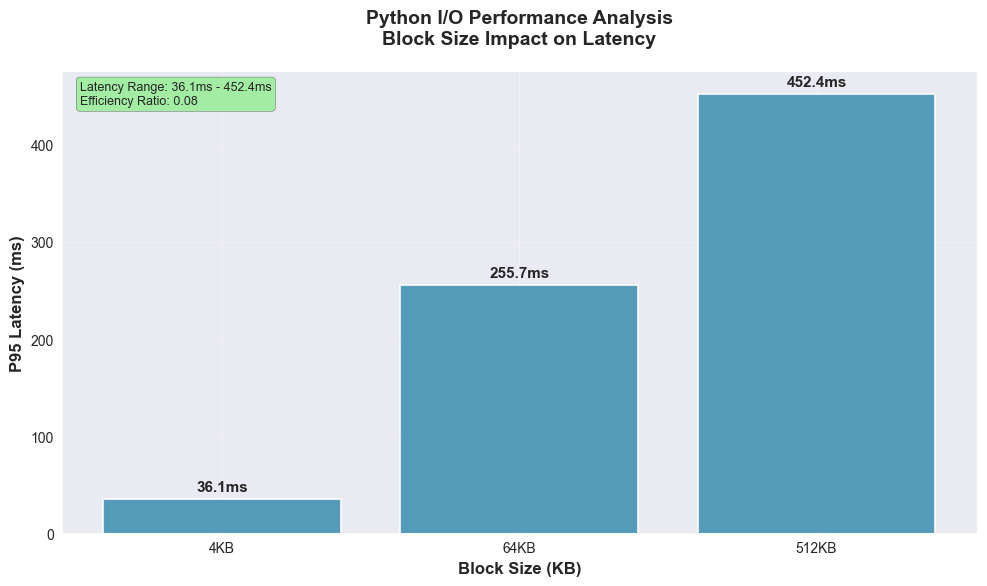
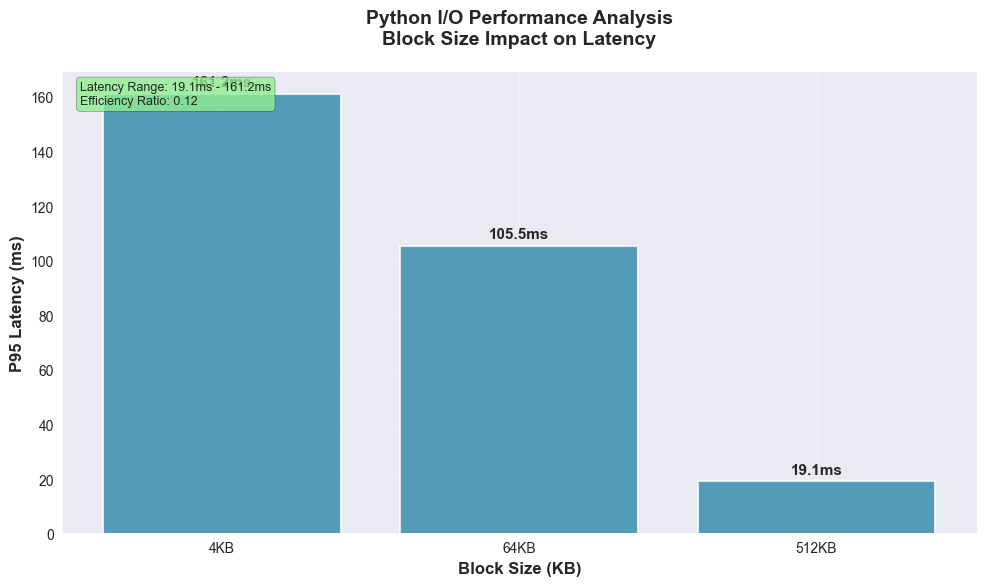
fixed bug

diff --git a/bench/py_io/io_bench.py b/bench/py_io/io_bench.py
@@ -1,5 +1,77 @@
 import os, time, argparse, random
-def write_read(path, size_kb=64, count=20):  # Reduced for home computer compatibility
+
+def write_read_fixed_total(path, block_kb=64, total_mb=1):
+    """Test I/O performance with fixed total data size but varying block sizes.
+    
+    This properly tests the effect of block size on I/O efficiency by:
+    - Keeping total data size constant
+    - Varying block size (and thus number of operations)
+    - Measuring the impact of system call overhead vs data transfer efficiency
+    """
+    total_bytes = total_mb * 1024 * 1024
+    block_bytes = block_kb * 1024
+    num_blocks = total_bytes // block_bytes
+    
+    # Generate random data for the block
+    block_data = os.urandom(block_bytes)
+    
+    t0 = time.perf_counter()
+    
+    # Write phase: write num_blocks files, each of block_kb size
+    file_paths = []
+    for i in range(num_blocks):
+        file_path = f"{path}/block_{i}.bin"
+        file_paths.append(file_path)
+        with open(file_path, "wb") as f:
+            f.write(block_data)
+    
+    # Read phase: read all files back
+    for file_path in file_paths:
+        with open(file_path, "rb") as f:
+            _ = f.read()
+    
+    # Cleanup phase: remove all files
+    for file_path in file_paths:
+        os.remove(file_path)
+    
+    t1 = time.perf_counter()
+    return (t1-t0)*1000.0
+
+def write_read_fixed_operations(path, block_kb=64, operations=20):
+    """Test I/O performance with fixed number of operations but varying block sizes.
+    
+    This tests the raw efficiency of different block sizes by:
+    - Keeping number of I/O operations constant
+    - Varying data size per operation
+    - Measuring pure I/O throughput
+    """
+    block_bytes = block_kb * 1024
+    block_data = os.urandom(block_bytes)
+    
+    t0 = time.perf_counter()
+    
+    # Write phase
+    file_paths = []
+    for i in range(operations):
+        file_path = f"{path}/op_{i}.bin"
+        file_paths.append(file_path)
+        with open(file_path, "wb") as f:
+            f.write(block_data)
+    
+    # Read phase
+    for file_path in file_paths:
+        with open(file_path, "rb") as f:
+            _ = f.read()
+    
+    # Cleanup phase
+    for file_path in file_paths:
+        os.remove(file_path)
+    
+    t1 = time.perf_counter()
+    return (t1-t0)*1000.0
+
+def write_read_legacy(path, size_kb=64, count=20):
+    """Legacy version - kept for backward compatibility."""
     data = os.urandom(size_kb*1024)
     t0 = time.perf_counter()
     for i in range(count):
@@ -12,44 +84,27 @@ def write_read(path, size_kb=64, count=20):  # Reduced for home computer compati
     t1 = time.perf_counter()
     return (t1-t0)*1000.0
 
-def write_read_optimized(path, size_kb=64, count=20):
-    """Optimized version that reduces file system overhead."""
-    data = os.urandom(size_kb*1024)
-    t0 = time.perf_counter()
-    
-    # Pre-create all files to reduce overhead
-    file_paths = [f"{path}/blk_{i}.bin" for i in range(count)]
-    
-    # Write phase
-    for p in file_paths:
-        with open(p, "wb") as f:
-            f.write(data)
-    
-    # Read phase  
-    for p in file_paths:
-        with open(p, "rb") as f:
-            _ = f.read()
-    
-    # Cleanup phase
-    for p in file_paths:
-        os.remove(p)
-    
-    t1 = time.perf_counter()
-    return (t1-t0)*1000.0
-
 if __name__ == "__main__":
-    ap = argparse.ArgumentParser()
-    ap.add_argument("--dir", default="./tmpio")
-    ap.add_argument("--block_kb", type=int, default=64)
-    ap.add_argument("--count", type=int, default=20)  # Reduced for home computer compatibility
-    ap.add_argument("--optimized", action="store_true", help="Use optimized I/O test")
+    ap = argparse.ArgumentParser(description="I/O Performance Benchmark Test")
+    ap.add_argument("--dir", default="./tmpio", help="Temporary directory for test files")
+    ap.add_argument("--block_kb", type=int, default=64, help="Block size in KB")
+    ap.add_argument("--total_mb", type=int, default=1, help="Total data size in MB (for fixed_total mode)")
+    ap.add_argument("--operations", type=int, default=20, help="Number of operations (for fixed_operations mode)")
+    ap.add_argument("--mode", choices=["fixed_total", "fixed_operations", "legacy"], 
+                   default="fixed_total", help="Test mode")
     args = ap.parse_args()
+    
     os.makedirs(args.dir, exist_ok=True)
     
-    # Use optimized version if requested
-    if args.optimized:
-        ms = write_read_optimized(args.dir, args.block_kb, args.count)
-    else:
-        ms = write_read(args.dir, args.block_kb, args.count)
-    
-    print(f"wall_ms={ms:.3f},block_kb={args.block_kb},count={args.count}")
+    # Choose test mode
+    if args.mode == "fixed_total":
+        ms = write_read_fixed_total(args.dir, args.block_kb, args.total_mb)
+        num_blocks = (args.total_mb * 1024 * 1024) // (args.block_kb * 1024)
+        print(f"wall_ms={ms:.3f},block_kb={args.block_kb},total_mb={args.total_mb},blocks={num_blocks}")
+    elif args.mode == "fixed_operations":
+        ms = write_read_fixed_operations(args.dir, args.block_kb, args.operations)
+        total_mb = (args.block_kb * args.operations) / 1024
+        print(f"wall_ms={ms:.3f},block_kb={args.block_kb},operations={args.operations},total_mb={total_mb:.2f}")
+    else:  # legacy mode
+        ms = write_read_legacy(args.dir, args.block_kb, args.operations)
+        print(f"wall_ms={ms:.3f},block_kb={args.block_kb},count={args.operations}")

diff --git a/report/REPORT.md b/report/REPORT.md
@@ -1,6 +1,6 @@
 # Autonomous Vehicle Performance Analysis Toolkit - Performance Analysis Report
 
-**Generated:** 2025-10-26 01:23:45
+**Generated:** 2025-10-26 02:12:03
 **Version:** 1.0.0
 
 ## Executive Summary
@@ -39,9 +39,9 @@ MINGW64_NT-10.0-26100 ljw 3.4.10-87d57229.x86_64 2024-02-14 20:17 UTC x86_64 Msy
 
 **I/O Performance Analysis:**
 
-- **Most Efficient:** 4KB blocks - 36.1ms P95
-- **Least Efficient:** 512KB blocks - 452.4ms P95
-- **Efficiency Ratio:** 0.08 (lower is better)
+- **Most Efficient:** 512KB blocks - 19.1ms P95
+- **Least Efficient:** 4KB blocks - 161.2ms P95
+- **Efficiency Ratio:** 0.12 (lower is better)
 
 ## Performance Visualizations
 
@@ -69,7 +69,7 @@ MINGW64_NT-10.0-26100 ljw 3.4.10-87d57229.x86_64 2024-02-14 20:17 UTC x86_64 Msy
 - **Compiler Optimization:** O3 provides 5.8% improvement over O2
 ### I/O Optimization
 
-- **Optimal Block Size:** 4KB provides best performance
+- **Optimal Block Size:** 512KB provides best performance
 - **Block Size Strategy:** Consider using adaptive block sizing based on data characteristics
 
 ### General Recommendations
